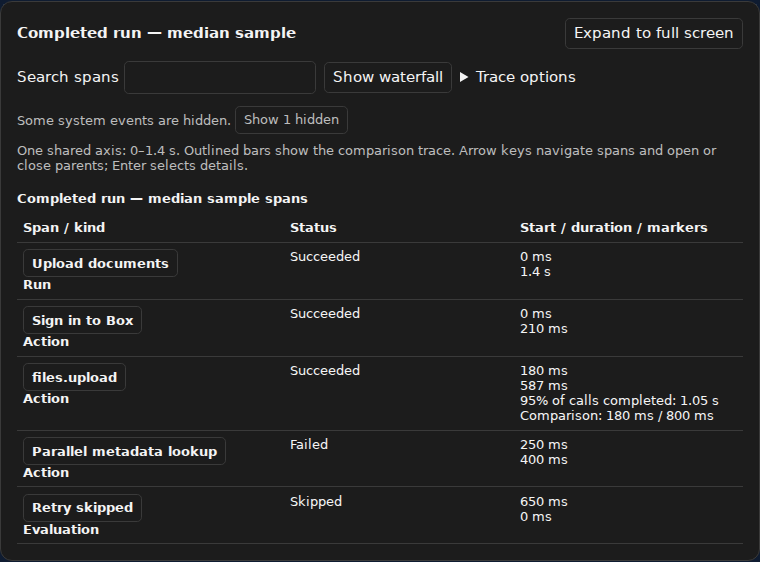
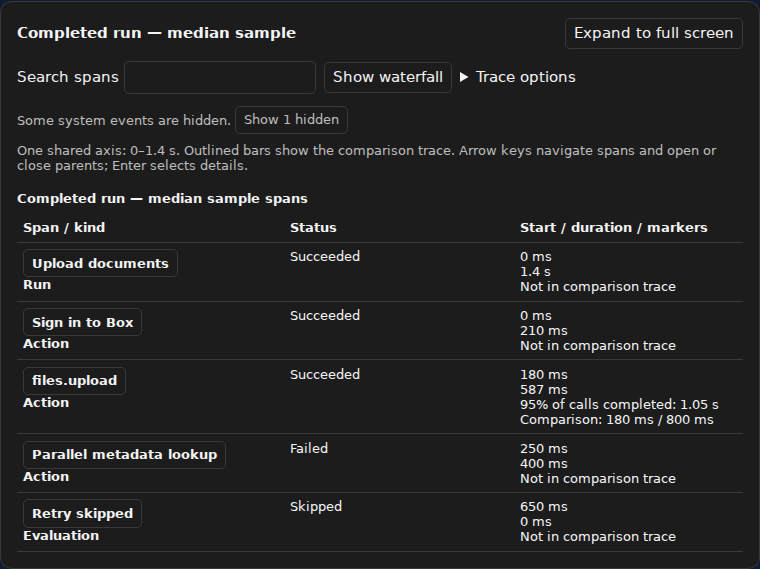
fix(trace): name earlier-only spans and refresh comparison views

diff --git a/tools/preview/trace-waterfall-shots.ts b/tools/preview/trace-waterfall-shots.ts
@@ -117,10 +117,10 @@ try {
     comparison.comparisonSpans = [{ ...current, markers: [{ atMs: 300, label: "Earlier checkpoint" }] }, { id: "B", parentId: "A", label: "Earlier failed branch", kind: "Action", startMs: 100, durationMs: 500, status: "failed" }];
   });
   if (await rows.count() !== 2 || await rows.nth(1).locator('[part="bar"]').count() || !await rows.nth(1).locator('[part="comparison-bar"]').count() || !await rows.first().locator('[part="comparison-marker"]').count()) throw new Error("Comparison-only row/bar or earlier marker missing");
-  if (!(await rows.nth(1).getAttribute("aria-label"))?.includes("Not in current trace")) throw new Error("Comparison-only state not named");
+  if (!(await rows.nth(1).getAttribute("aria-label"))?.includes("Earlier failed branch, Not in current trace")) throw new Error("Comparison-only state not named");
   await checkAxe("Comparison-only branch treegrid");
   await trace.locator('[part="table-toggle"]').click();
-  if (!(await trace.innerText()).includes("Comparison marker Earlier checkpoint")) throw new Error("Earlier marker missing from table");
+  if (!(await trace.locator("table").innerText()).includes("Comparison marker Earlier checkpoint")) throw new Error("Earlier marker missing from table");
   await checkAxe("Comparison-only branch table");
   if (errors.length) throw new Error(`Browser errors: ${errors.join("; ")}`);
   console.log("verified waterfall/table shared axis, markers, overlap, 1440/390 light/dark axe, keyboard, search/system, modal, live focus and reduced motion");

diff --git a/src/patterns/run/trace-waterfall.ts b/src/patterns/run/trace-waterfall.ts
@@ -238,7 +238,7 @@ export class TraceWaterfall extends BaseElement {
     const markerList = validMarkers;
     const summary = (span: TraceSpan, comparisonOnly = false): string => {
       const previous = comparison.get(span.id);
-      const current = comparisonOnly ? "Not in current trace" : `${span.label}, ${statusLabels[span.status]}, starts at ${duration(span.startMs)}, takes ${duration(traceSpanDuration(span, this.nowMs))}${markerList(span).map(marker => `, ${marker.label} at ${duration(marker.atMs)}`).join("")}`;
+      const current = comparisonOnly ? `${span.label}, Not in current trace` : `${span.label}, ${statusLabels[span.status]}, starts at ${duration(span.startMs)}, takes ${duration(traceSpanDuration(span, this.nowMs))}${markerList(span).map(marker => `, ${marker.label} at ${duration(marker.atMs)}`).join("")}`;
       return current + (!comparison.size ? "" : previous ? `; comparison ${statusLabels[previous.status]}, starts at ${duration(previous.startMs)}, takes ${duration(traceSpanDuration(previous, this.nowMs))}${markerList(previous).map(marker => `, comparison marker ${marker.label} at ${duration(marker.atMs)}`).join("")}` : "; not in comparison trace");
     };
     const rowHtml = rows.map(row => {

diff --git a/test/patterns/run/trace-waterfall.test.ts b/test/patterns/run/trace-waterfall.test.ts
@@ -34,7 +34,7 @@ describe("trace waterfall layout", () => {
     expect(rows(element)[1]!.querySelector('[part="comparison-bar"]')).not.toBeNull();
     expect(rows(element)[0]!.querySelector('[part="comparison-marker"]')).not.toBeNull();
     expect(rows(element)[0]!.getAttribute("aria-label")).toContain("comparison marker Earlier marker");
-    expect(rows(element)[1]!.getAttribute("aria-label")).toContain("Not in current trace");
+    expect(rows(element)[1]!.getAttribute("aria-label")).toContain("Sign in, Not in current trace");
     rows(element)[1]!.click(); expect(element.selectedSpanId).toBe("B");
     click(element, "table-toggle"); expect(element.shadowRoot!.textContent).toContain("Not in current trace");
     expect(element.shadowRoot!.textContent).toContain("Comparison marker Earlier marker");
